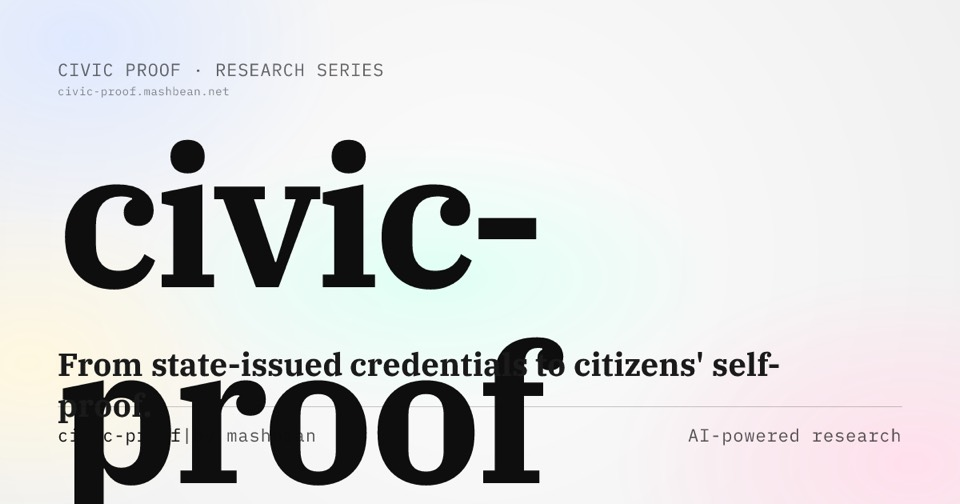
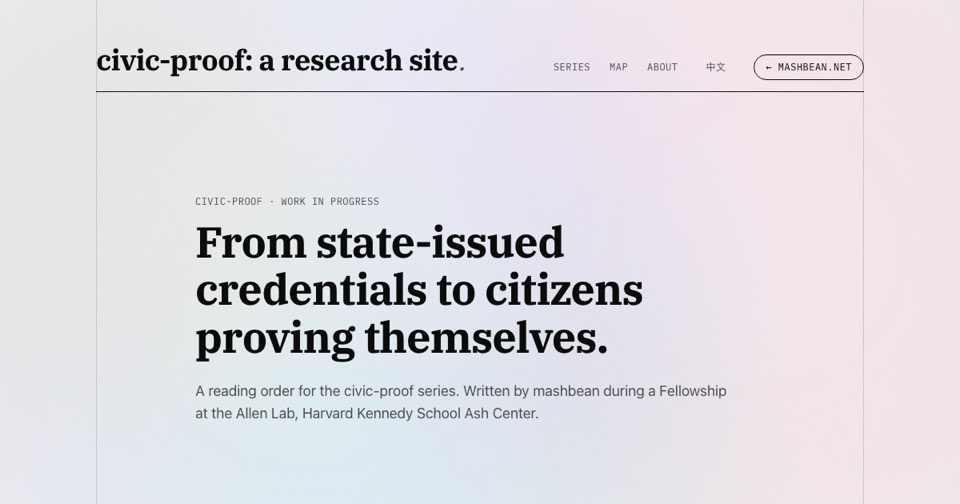
作品集加入 Bond 有備而來；換掉 civic-proof 跑版的 og 封面
civic-proof 站方 og 圖字疊字（wordmark 蓋到副標），改用首頁
截圖當封面；順便發現站有中文版，chip 由「英文」改「中英雙語」。
bonds.tw 用站方森林儲糧 og 圖，文案取自站上自述；查無公開 repo，
不放原始碼連結，排在 civic-proof 之後（同屬身分／證明主題）。

diff --git a/src/data/works.ts b/src/data/works.ts
@@ -50,8 +50,18 @@ export const works: Work[] = [
       "從國家憑證到公民自我證明的學術研究站：25 篇系列文章，涵蓋數位身分、規範理論、工程實作與跨國治理。",
     url: "https://civic-proof.mashbean.net/",
     repo: "https://github.com/mashbean/civic-proof-en",
-    chips: ["研究站", "英文"],
+    chips: ["研究站", "中英雙語"],
     cover: "images/works/civic-proof.jpg",
+    group: "personal",
+  },
+  {
+    slug: "bonds",
+    title: "Bond 有備而來",
+    tagline:
+      "也許今天風和日麗，但 BEAR 可能隨時闖入——把身分與證明先備份好，有備而來。",
+    url: "https://bonds.tw/",
+    chips: ["數位備災"],
+    cover: "images/works/bonds.jpg",
     group: "personal",
   },
   {
